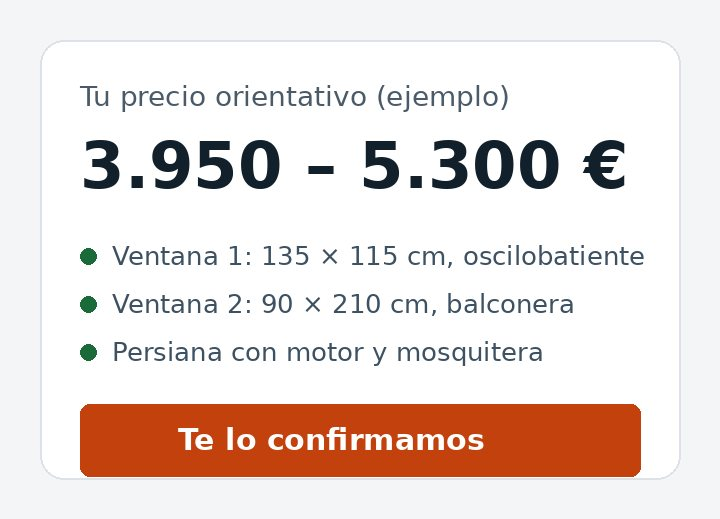
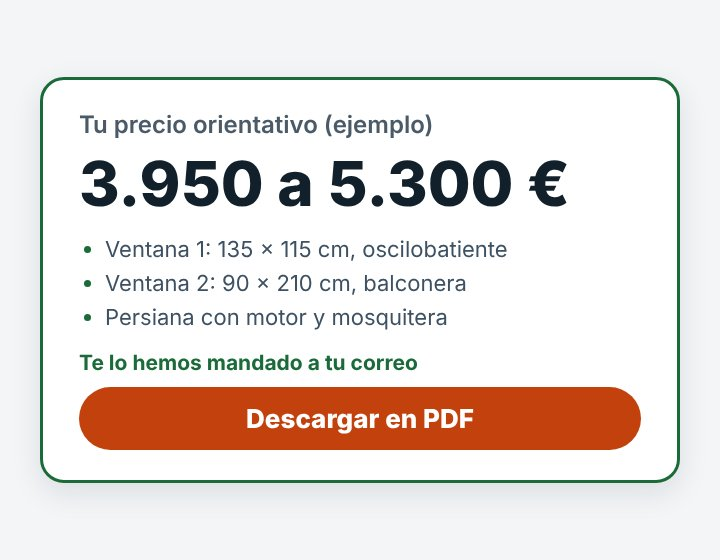
Precio con fotos: imagen del paso 3 al día (ams·v17)

Changed region(s): [[0.0611, 0.1233, 0.9472, 0.9249], [0.0917, 0.4316, 0.8861, 0.5241], [0.0306, 0.1541, 0.0611, 0.8324]]

diff --git a/public/landing/zona-norte.html b/public/landing/zona-norte.html
@@ -147,7 +147,7 @@ window.addEventListener("load",function(){if(S.z>0){done=-1;scaleText()}if(S.c)c
 <div class="sv-pasos">
 <div class="sv-paso-c"><img src="/img/sv-paso1.jpg" alt="Una ventana con un folio pegado en el cristal" loading="lazy" width="720" height="560"><div><span class="sv-n">1</span><h3>Pega un folio en el cristal</h3><p>Un folio normal, de los de la impresora, con un poco de celo. Y haz una foto de frente a toda la ventana.</p></div></div>
 <div class="sv-paso-c"><video poster="/video/marcar-esquinas.jpg" autoplay muted loop playsinline preload="auto" width="720" height="560" aria-label="Vídeo: con el dedo se tocan en la foto las 4 esquinas del folio y las 4 de la ventana, y sale la medida"><source src="/video/marcar-esquinas.mp4" type="video/mp4"><source src="/video/marcar-esquinas.webm" type="video/webm"></video><div><span class="sv-n">2</span><h3>Marca el folio y la ventana en la foto</h3><p>La foto sale en la pantalla. Con el dedo, toca encima de la foto las 4 esquinas del folio y luego las 4 esquinas de la ventana. Como el folio siempre mide lo mismo, la web calcula sola lo que mide tu ventana.</p></div></div>
-<div class="sv-paso-c"><img src="/img/sv-paso3.jpg" alt="Ejemplo del precio orientativo que sale al momento" loading="lazy" width="720" height="519"><div><span class="sv-n">3</span><h3>Ves tu precio al momento</h3><p>Te sale el precio orientativo en la pantalla. Si te encaja, vamos a medir con láser y te damos el presupuesto definitivo.</p></div></div>
+<div class="sv-paso-c"><img src="/img/sv-paso3.jpg?v=2" alt="Ejemplo del precio orientativo que sale al momento, con el botón de descargar en PDF" loading="lazy" width="720" height="560"><div><span class="sv-n">3</span><h3>Ves tu precio al momento</h3><p>Te sale el precio orientativo en la pantalla. Si te encaja, vamos a medir con láser y te damos el presupuesto definitivo.</p></div></div>
 </div>
 </div></section>
 

diff --git a/public/presupuesto-sin-visita.html b/public/presupuesto-sin-visita.html
@@ -148,7 +148,7 @@ window.addEventListener("load",function(){if(S.z>0){done=-1;scaleText()}if(S.c)c
 <div class="sv-pasos">
 <div class="sv-paso-c"><img src="/img/sv-paso1.jpg" alt="Una ventana con un folio pegado en el cristal" loading="lazy" width="720" height="560"><div><span class="sv-n">1</span><h3>Pega un folio en el cristal</h3><p>Un folio normal, de los de la impresora, con un poco de celo. Y haz una foto de frente a toda la ventana.</p></div></div>
 <div class="sv-paso-c"><video poster="/video/marcar-esquinas.jpg" autoplay muted loop playsinline preload="auto" width="720" height="560" aria-label="Vídeo: con el dedo se tocan en la foto las 4 esquinas del folio y las 4 de la ventana, y sale la medida"><source src="/video/marcar-esquinas.mp4" type="video/mp4"><source src="/video/marcar-esquinas.webm" type="video/webm"></video><div><span class="sv-n">2</span><h3>Marca el folio y la ventana en la foto</h3><p>La foto sale en la pantalla. Con el dedo, toca encima de la foto las 4 esquinas del folio y luego las 4 esquinas de la ventana. Como el folio siempre mide lo mismo, la web calcula sola lo que mide tu ventana.</p></div></div>
-<div class="sv-paso-c"><img src="/img/sv-paso3.jpg" alt="Ejemplo del precio orientativo que sale al momento" loading="lazy" width="720" height="519"><div><span class="sv-n">3</span><h3>Ves tu precio al momento</h3><p>Te sale el precio orientativo en la pantalla. Si te encaja, vamos a medir con láser y te damos el presupuesto definitivo.</p></div></div>
+<div class="sv-paso-c"><img src="/img/sv-paso3.jpg?v=2" alt="Ejemplo del precio orientativo que sale al momento, con el botón de descargar en PDF" loading="lazy" width="720" height="560"><div><span class="sv-n">3</span><h3>Ves tu precio al momento</h3><p>Te sale el precio orientativo en la pantalla. Si te encaja, vamos a medir con láser y te damos el presupuesto definitivo.</p></div></div>
 </div>
 </div></section>
 

diff --git a/lib/version.ts b/lib/version.ts
@@ -1,2 +1,2 @@
 /* Pildorita de versión de la mesa de AMS. Se sube en cada cambio (ams·vN) para comprobar que lo publicado es lo último. */
-export const VERSION = "ams·v16";
+export const VERSION = "ams·v17";

diff --git a/CLAUDE.md b/CLAUDE.md
@@ -19,3 +19,4 @@
 - 2026-11-01 (ams·v14): vídeo «Mira cómo se hace (15 segundos)» arriba de la herramienta de Precio con fotos (y en la landing de zona norte): `public/video/precio-con-fotos.mp4` + `.webm` + póster, en bucle y sin sonido. Se genera desde una escena en canvas fuera del repo (scratchpad `video/escena.html`, grabada con Playwright y ffmpeg); de la misma escena salen los vídeos para anuncios (vertical 1080x1920 y cuadrado 1080x1080, con tarjeta final).
 - 2026-11-01 (ams·v15): el vídeo de cómo se hace también va grande, en marcha solo, justo debajo de «Así de fácil, en tres pasos» (página de Precio con fotos y landing de zona norte).
 - 2026-11-01 (ams·v16): fuera el vídeo grande de arriba; ahora la tarjeta 2 de «Así de fácil, en tres pasos» lleva su propio vídeo en bucle (`public/video/marcar-esquinas.mp4`/.webm/.jpg: el dedo marca folio y ventana y sale la medida), y las tarjetas 1 y 3 siguen con foto. Las imágenes de las tres tarjetas pasan a proporción 720/560. El vídeo junto a la herramienta y los de anuncios numeran como los tres pasos (1, 2, 2, 2, 3).
+- 2026-11-01 (ams·v17): imagen de la tarjeta 3 (`img/sv-paso3.jpg`, 720x560) rehecha: «3.950 a 5.300 €», «Te lo hemos mandado a tu correo» y botón «Descargar en PDF» (antes «Te lo confirmamos»). Fuente en el scratchpad `sinvisita/paso3.html`.
